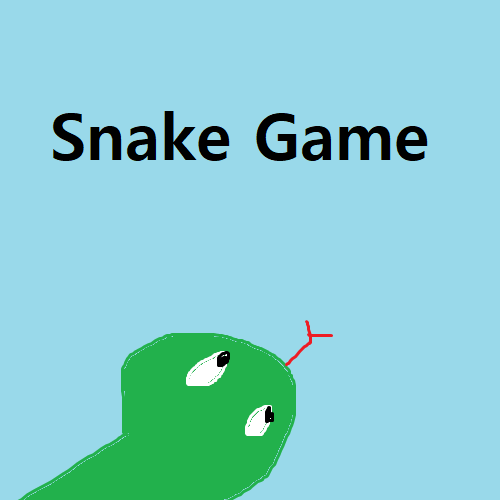
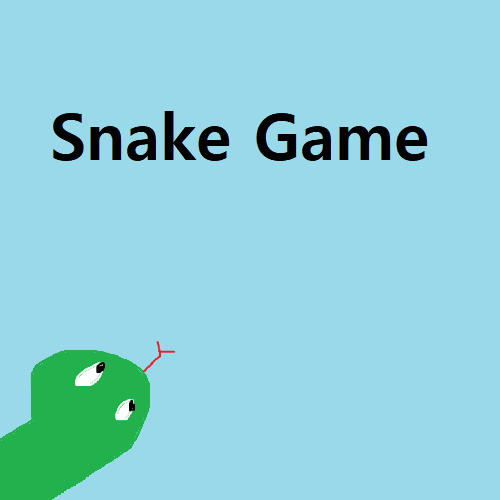
Title scene prototype

Changed region(s): [[0.0, 0.63, 0.66, 1.0]]

diff --git a/src/TitleScene.py b/src/TitleScene.py
@@ -10,20 +10,22 @@ from SampleScene import SampleScene
 class TitleScene:
     def __init__(self):
         self.bg = GameObject("images/titlescene_bg.png")
-        self.start_button = Button("images/startbutton_default.png", "images/startbutton_hover.png", "images/startbutton_click.png", 50,50)
+        center = (Settings.display_width/2 , Settings.display_height/2)
+        self.start_button = Button("images/startbutton_default.png", "images/startbutton_hover.png", 
+                                "images/startbutton_click.png", 200, 300)
+
         self.start_button.onclick = self.button_clicked
+
+        self.crown = GameObject("images/crown.png", 160, 190)
         self.speed = 100
-        self.text = Text(text = "0", size = 20)
-        self.i = 0
+        self.text = Text(text = str(Globals.best_score), size = 40, x = 250, y = 200)
     def button_clicked(self):
-        self.i += 1
-        self.text.text = str(self.i)
-        if self.i == 5:
-            Globals.change_scene(SampleScene())
+        Globals.current_scene = SampleScene()
     def update(self, delta_time):
         self.start_button.update()
 
     def render(self, gameDisplay):
         self.bg.render(gameDisplay)
         self.text.render(gameDisplay)
+        self.crown.render(gameDisplay)
         self.start_button.render(gameDisplay)

diff --git a/src/SampleScene.py b/src/SampleScene.py
@@ -23,6 +23,6 @@ class SampleScene:
             self.text.text = str(self.i)
 
     def render(self, gameDisplay):
-        pygame.draw.rect(gameDisplay, (0,0,0), pygame.Rect(0, 0, Settings.display_width, Settings.display_hegiht))
+        pygame.draw.rect(gameDisplay, (0,0,0), pygame.Rect(0, 0, Settings.display_width, Settings.display_height))
         self.player.render(gameDisplay) 
         self.text.render(gameDisplay)

diff --git a/src/main.py b/src/main.py
@@ -12,7 +12,7 @@ def render(gameDisplay):
 
 pygame.init()
 #Init window settings
-Globals.gameDisplay = pygame.display.set_mode((Settings.display_width, Settings.display_hegiht))
+Globals.gameDisplay = pygame.display.set_mode((Settings.display_width, Settings.display_height))
 pygame.display.set_caption(Settings.title)
 pygame.display.set_icon(pygame.image.load(Settings.icon_path))
 #Init delta_time

diff --git a/src/Globals.py b/src/Globals.py
@@ -2,5 +2,4 @@
 gameDisplay = None
 current_scene = None
 
-def change_scene(new_scene):
-    current_scene = new_scene
+best_score = 100

diff --git a/src/Settings.py b/src/Settings.py
@@ -1,5 +1,5 @@
 display_width = 500
-display_hegiht = 500
+display_height = 500
 
 title = "Snake Game"
 icon_path = "images/icon.png"
